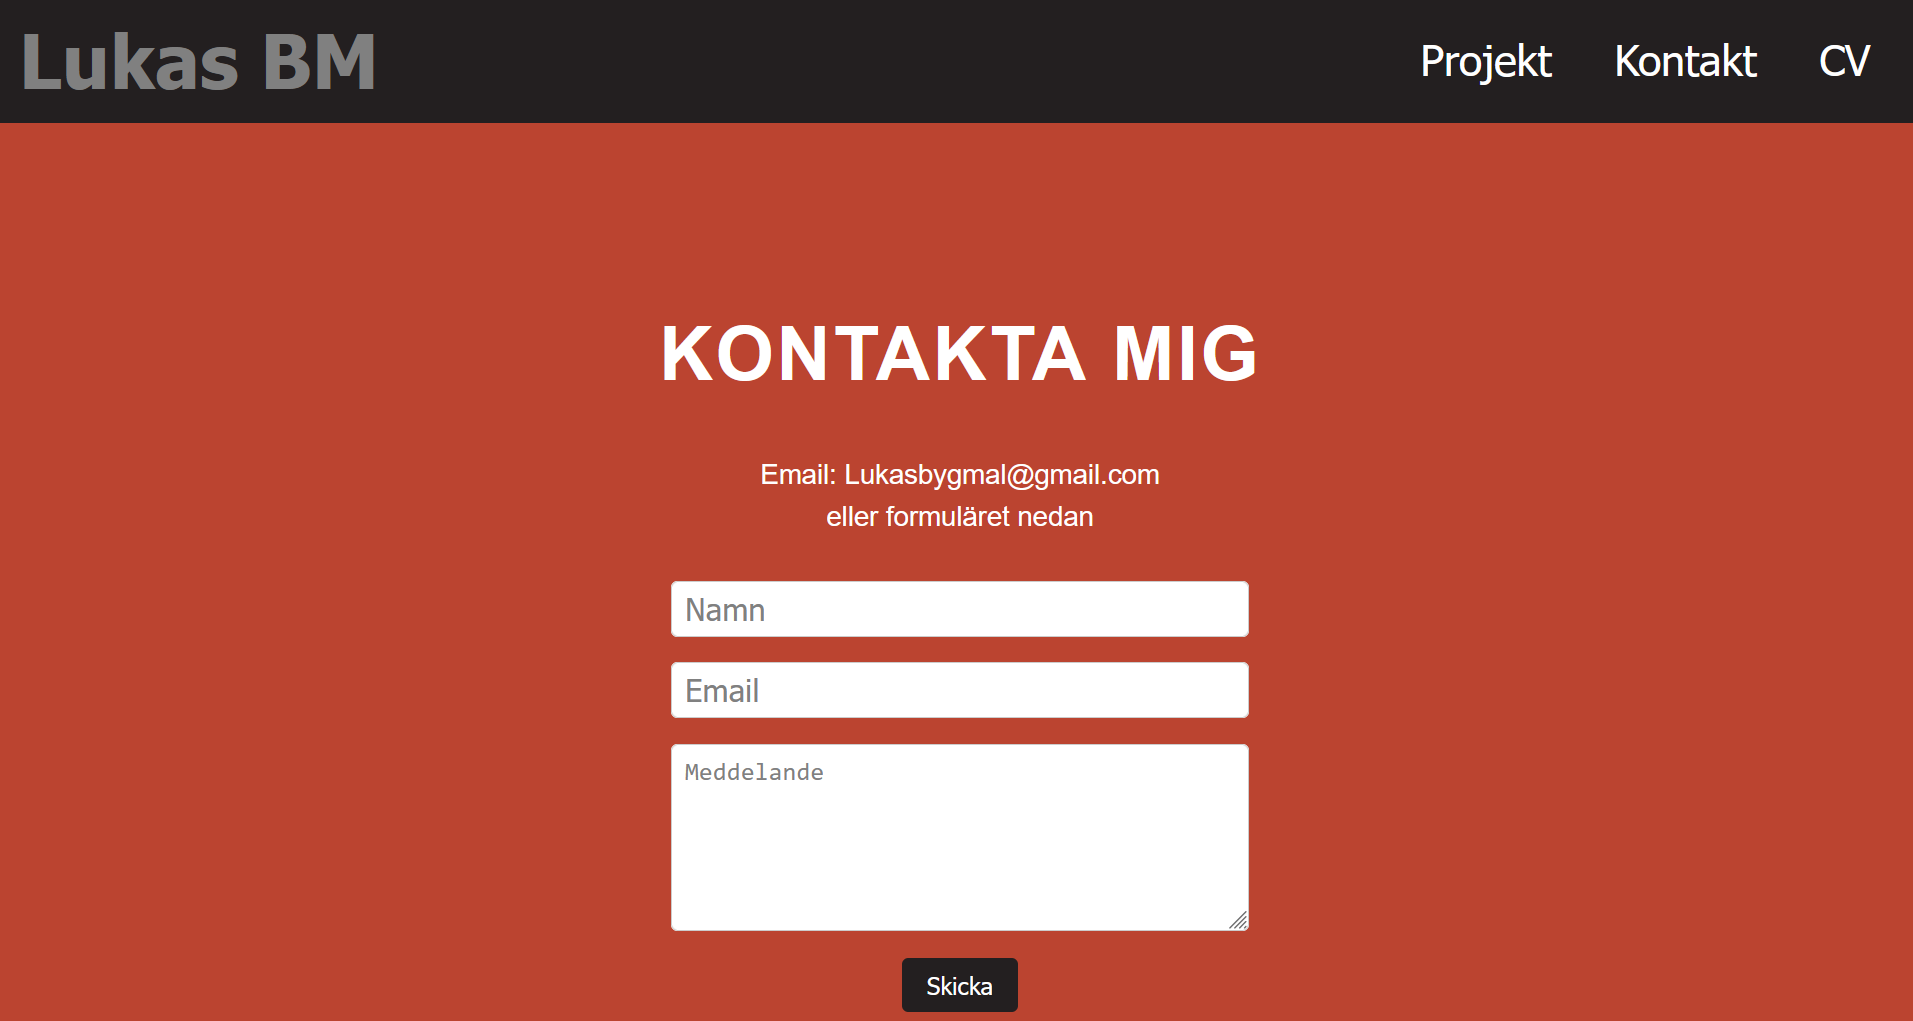
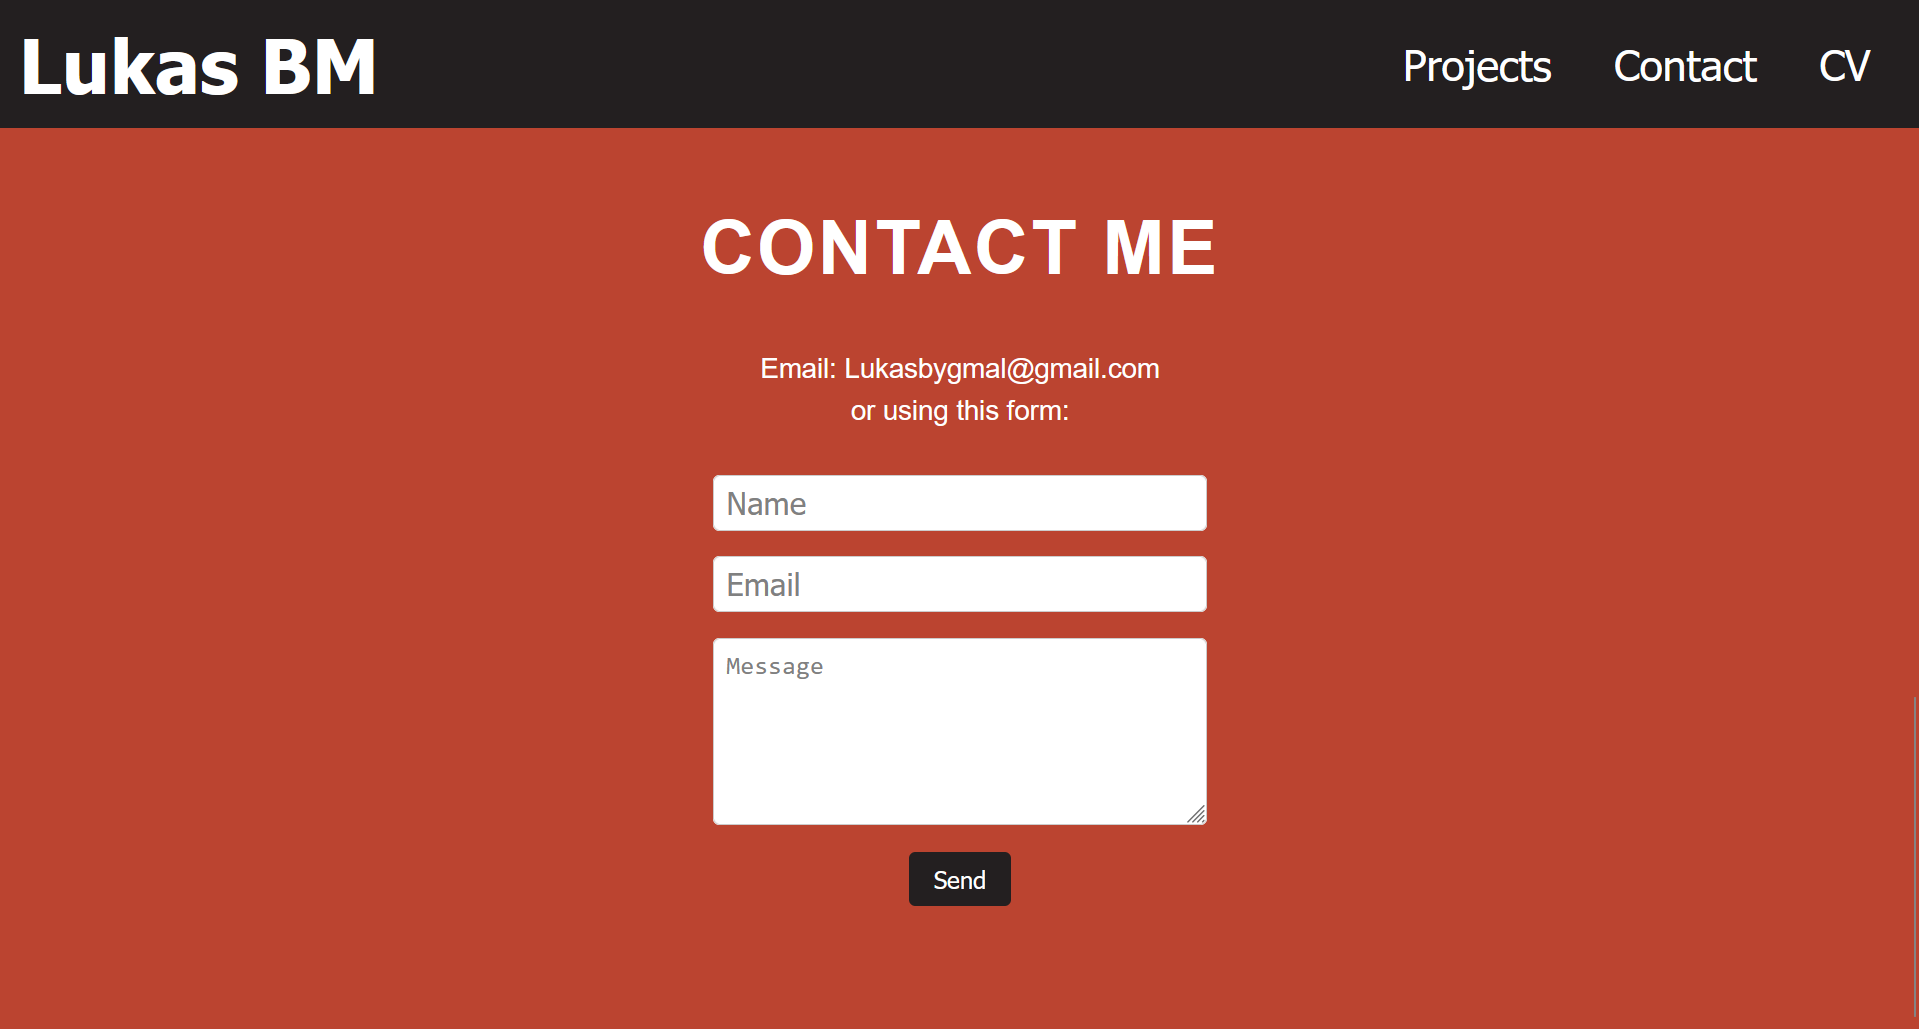
Changed language to English and added technologies in layoutDescription

diff --git a/src/components/ProjectLayout.vue b/src/components/ProjectLayout.vue
@@ -30,23 +30,23 @@ export default {
       projects: [
         {
           id: 1,
-          title: 'Kandidatarbete: Domänspecifik chatbot för Drupps',
+          title: 'Bachelor´s Thesis: Domain Specific Chatbot for Drupps',
           image: drupps,
-          description: 'Vi utvecklade den domänspecifika chatbotten "Dr. Upps" i ett web-baserat UI, åt Drupps för att anställda ska kunna ställa frågor om intern dokumentation. Systemet består av en frontend skriven i React och Next.js, backend som är skriven i PostgreSQL och Flask och en AI del som består av en RAG och Google\'s vertex AI som LLM.',
+          description: 'We developed the domain-specific chatbot Dr. Upps in a web-based UI for Drupps, enabling employees to ask questions about internal documentation. The system consists of a frontend built with React and Next.js, a backend implemented with PostgreSQL and Flask, and an AI component comprising a RAG and Google´s Vertex AI as the LLM.',
           technologies: ['React', 'Next.js', 'PostgreSQL', 'Flask', 'Vertex AI', 'Auth0']
         },
         {
           id: 2,
-          title: 'Portfoliosida',
+          title: 'Portfolio Site',
           image: portfolio_sc,
-          description: 'Skapade den här dynamiska och responsiva portfoliosida med Vue.js, JavaScript och CSS. Den har en simplistisk design med ett kontaktformulär.',
+          description: 'Created a dynamic and responsive portfolio site using Vue.js, JAvascript and CSS. It has a simplistic design showcasing my projects and working contact form.',
           technologies: ['Vue.js', 'JavaScript', 'CSS']
         },
         {
           id: 3,
-          title: 'Schack-ish spel med AI',
+          title: 'Savanna Stratgey: Chess-ish game with AI',
           image: savanna,
-          description: 'Målet med projektet var att utforska minimaxalgoritmen alpha-beta pruning och sortering av drag för optimering. För att göra det mer intressant valde jag att göra ett schack med alternativa pjäser för att ge mer utrymme för utforskning i den heuristiska värderingen.',
+          description: 'The game features unique piece movements distinct from chess, although with similar strategic elements. The goal of the project was to explore the implementation of the minimax algorithm with alpha-beta pruning, optimizing it through move ordering and heuristic evaluation techniques.',
           technologies: ['Python']
         },
       ]

diff --git a/src/components/LayoutDescription.vue b/src/components/LayoutDescription.vue
@@ -1,12 +1,16 @@
 <template>
     <div class="layout-description-title">
       
-      Student UU<br> Civilingenjör Informationsteknologi
+      4th Year Student at UU<br> Master's Programme in Computer<br> and Infromation Engineering
     </div>
     <div class= "layout-description">
-      Välkommen till min portfoliosida! Under utbildningen har jag både arbetat med många olika programmeringsspråk/teknologier som ni kan se nedan och lärt mig att kommunicera effektivt och samarbeta för att nå gemensamma mål från de projektarbeten jag haft.
-      På min fritid spelar jag mycket brädspel, sitter med i KFUM Norrbyskärs styrelse och håller på med egna projekt, som ni kan se längre ner på sidan.
-      Jag ser fram emot nya utmaningar där jag kan bidra med mina kunskaper och initativ för att utveckla lösningar som bidrar positivt till samhällsutvecklingen.
+      Welcome to my portfolio site! I'm currently looking for a part-time or summer job. During my education I have worked with a wide variety of languages/technologies and 
+      developed strong communication skills and the ability to collaborate effectively to achieve shared goals. In my free time I enjoy working on coding projects, which you can explore in the projects section.
+      I look forward to new challenges where I can contribute with my knowledge and initiative to develop solutions to real problems! <br>
+      The languages/technologies I feel most comfortable with are:
+    </div>
+    <div class="technologies">
+      Python C++ Java C Haskell SQL JavaScript Flutter Vue.js React 
     </div>
   </template>
   
@@ -30,6 +34,13 @@
     margin: 5px 80px;
     background-color: transparent
   }
+  .technologies {
+    margin-top: auto;
+    font-size: 28px;
+    font-weight: bold;
+    background-color: transparent;
+    color: #BB4430;
+  }
   
   @media (max-width: 768px) {
   .layout-description-title{
@@ -43,7 +54,7 @@
   }
   .technologies {
     margin-top: auto;
-    font-size: 0.9em;
+    font-size: 1.2em;
     font-weight: bold;
     background-color: transparent;
     color: #BB4430;

diff --git a/src/components/ContactForm.vue b/src/components/ContactForm.vue
@@ -3,7 +3,7 @@
     <form @submit.prevent="submitForm">
       <div class="form-group">
         <label for="name"></label>
-        <input type="text" id="name" v-model="form.name" placeholder="Namn" required />
+        <input type="text" id="name" v-model="form.name" placeholder="Name" required />
       </div>
       <div class="form-group">
         <label for="email"></label>
@@ -11,9 +11,9 @@
       </div>
       <div class="form-group">
         <label for="message"></label>
-        <textarea id="message" v-model="form.message" placeholder="Meddelande" required></textarea>
+        <textarea id="message" v-model="form.message" placeholder="Message" required></textarea>
       </div>
-      <button type="submit">Skicka</button>
+      <button type="submit">Send</button>
     </form>
     <div v-if="successMessage" class="success-message">{{ successMessage }}</div>
     <div v-if="errorMessage" class="error-message">{{ errorMessage }}</div>
@@ -45,7 +45,7 @@ export default {
         });
 
         if (response.ok) {
-          this.successMessage = 'Tack för ditt meddelande!';
+          this.successMessage = 'Thank you for your message!';
           this.errorMessage = '';
           this.form.name = '';
           this.form.email = '';

diff --git a/src/App.vue b/src/App.vue
@@ -4,12 +4,12 @@
       <button class="title-button" @click="handleButtonClick('mainLayout')">Lukas BM</button>
       <div class="menu-toggle" @click="toggleMenu">
         <div class="line"></div>
-        <div class="line"></div>
+        <div class="line"></div>  
         <div class="line"></div>
       </div>
       <div class="button-group" :class="{ 'show-menu': isMenuOpen }">
-        <button @click="handleButtonClick('projectLayout')">Projekt</button>
-        <button @click="handleButtonClick('contactLayout')">Kontakt</button>
+        <button @click="handleButtonClick('projectLayout')">Projects</button>
+        <button @click="handleButtonClick('contactLayout')">Contact</button>
         <a href="/LukasBygdellMalmstig-CV.pdf" target="_blank" @click="closeMenu">
           <button>CV</button>
         </a>

diff --git a/src/components/ContactLayout.vue b/src/components/ContactLayout.vue
@@ -2,10 +2,10 @@
     <div class="main-container">
       <div class="content-container">
         <div class="contact-title">
-          <h1>Kontakta mig</h1>
+          <h1>Contact Me</h1>
         </div>
         <div class="contact-email">
-          Email: Lukasbygmal@gmail.com <br> eller formuläret nedan
+          Email: Lukasbygmal@gmail.com <br> or using this form:
         </div>
         <ContactForm/> 
       </div>
